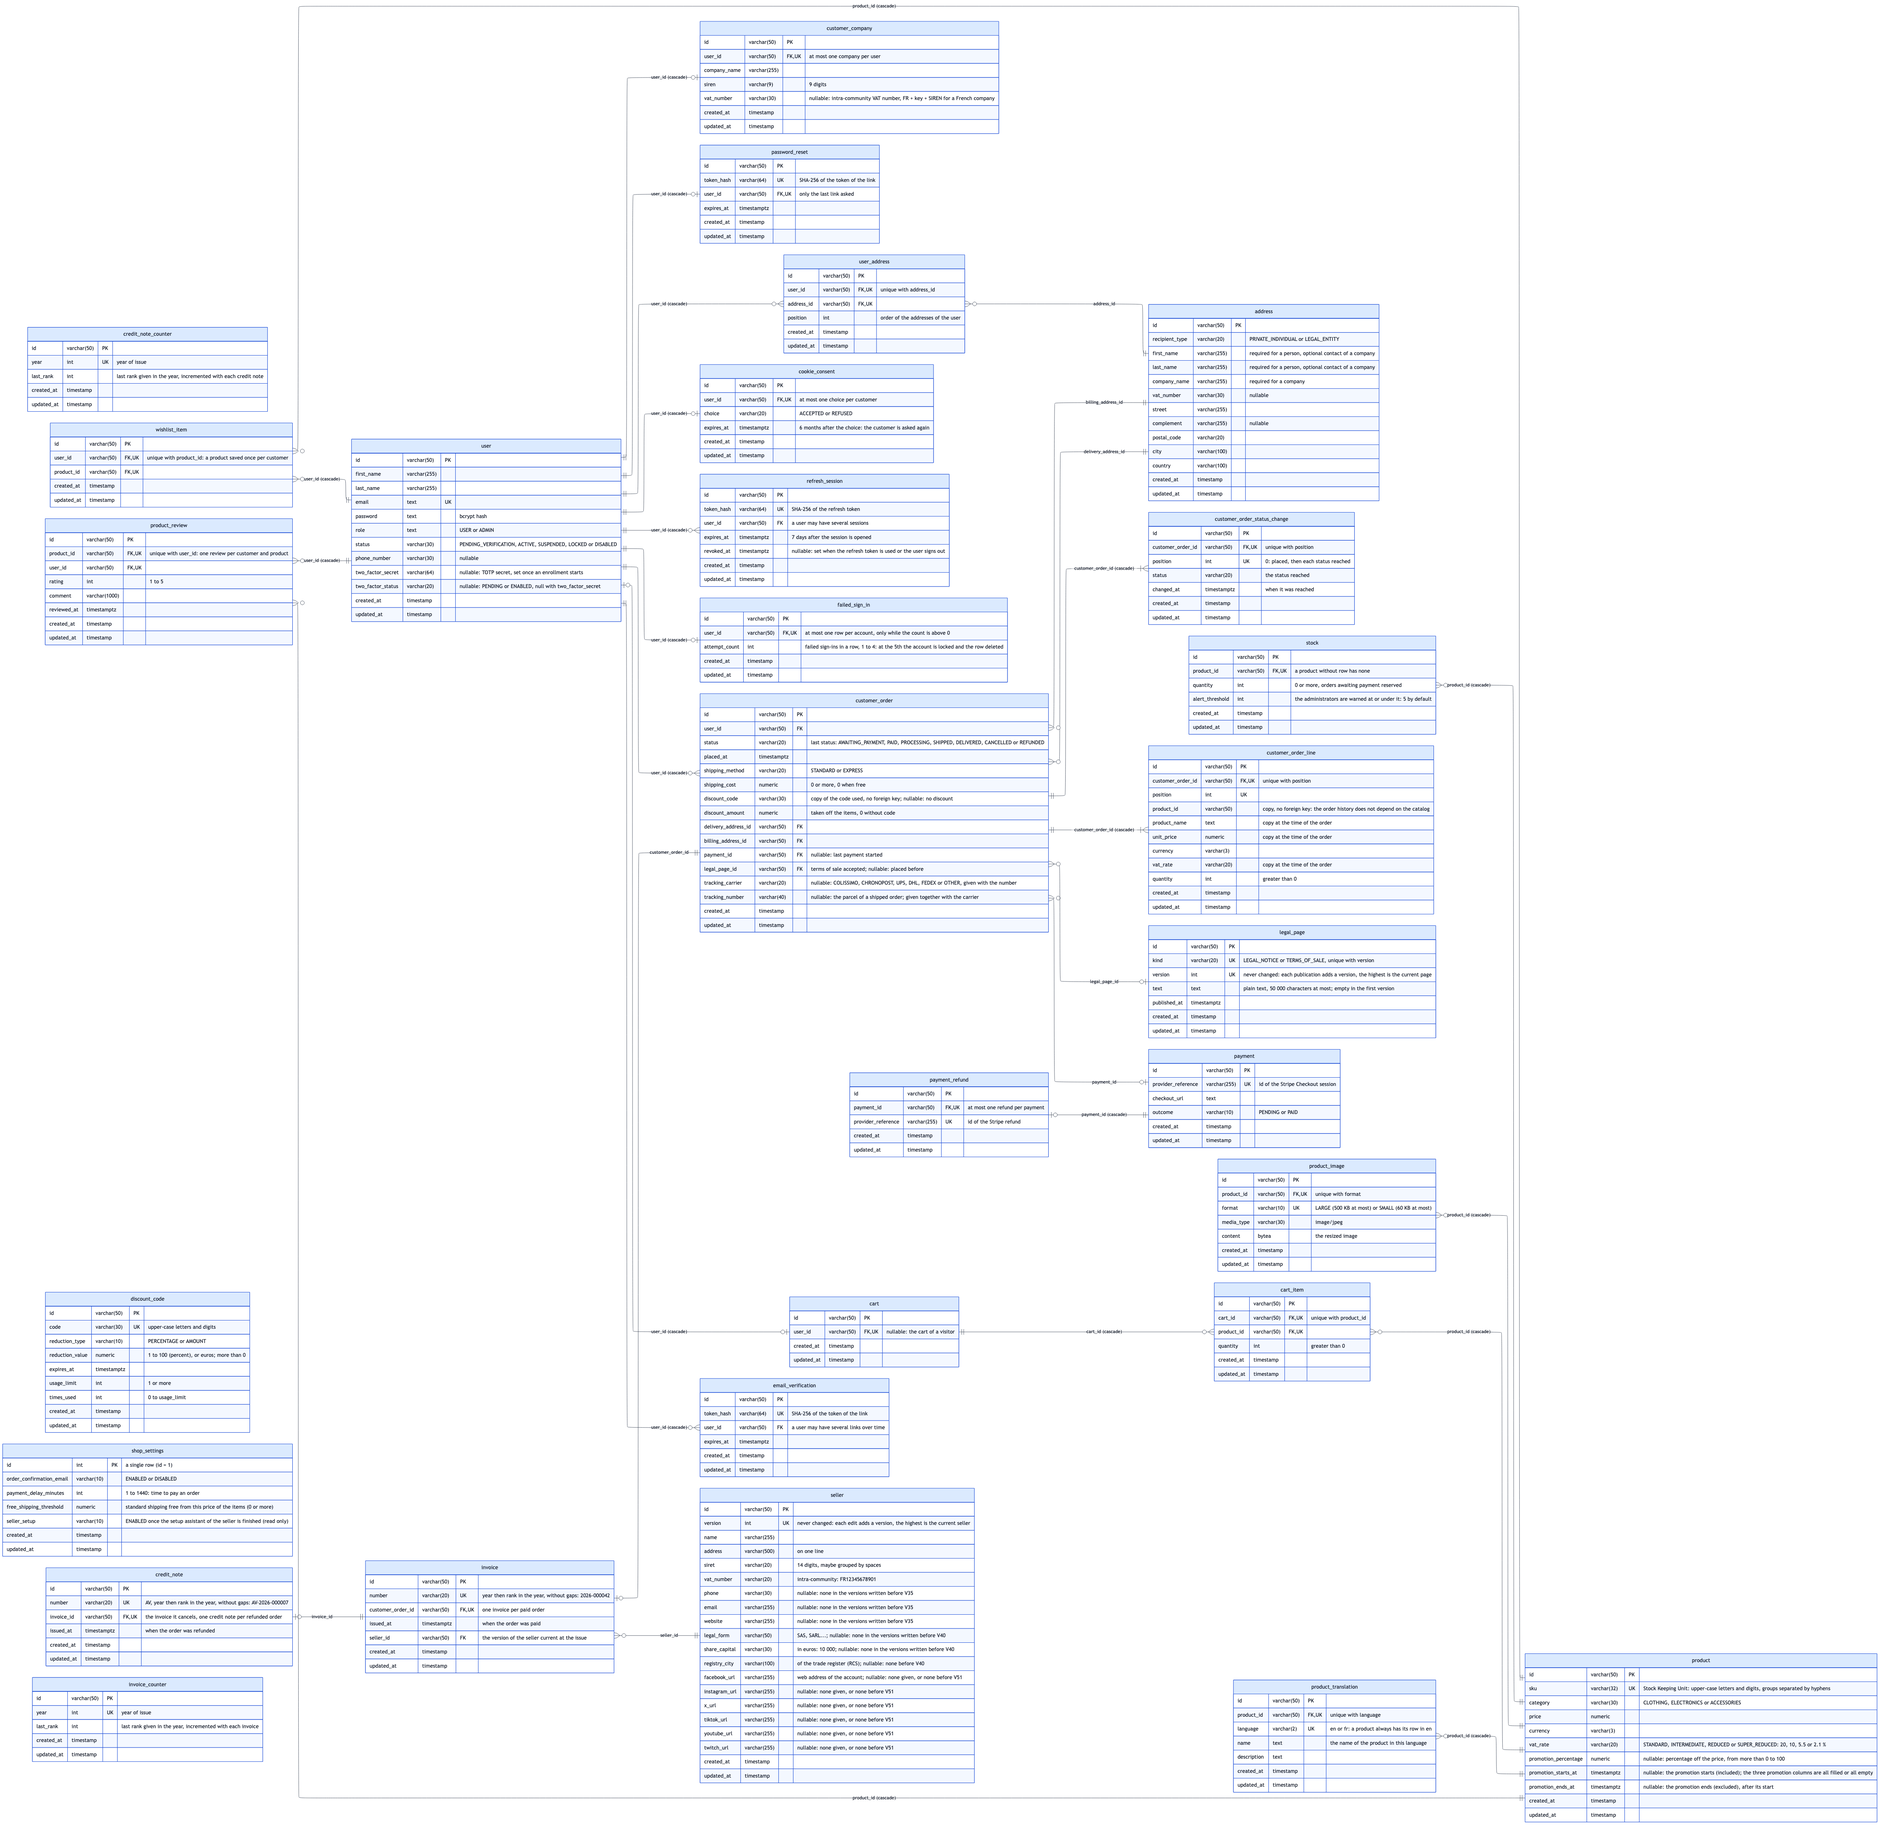
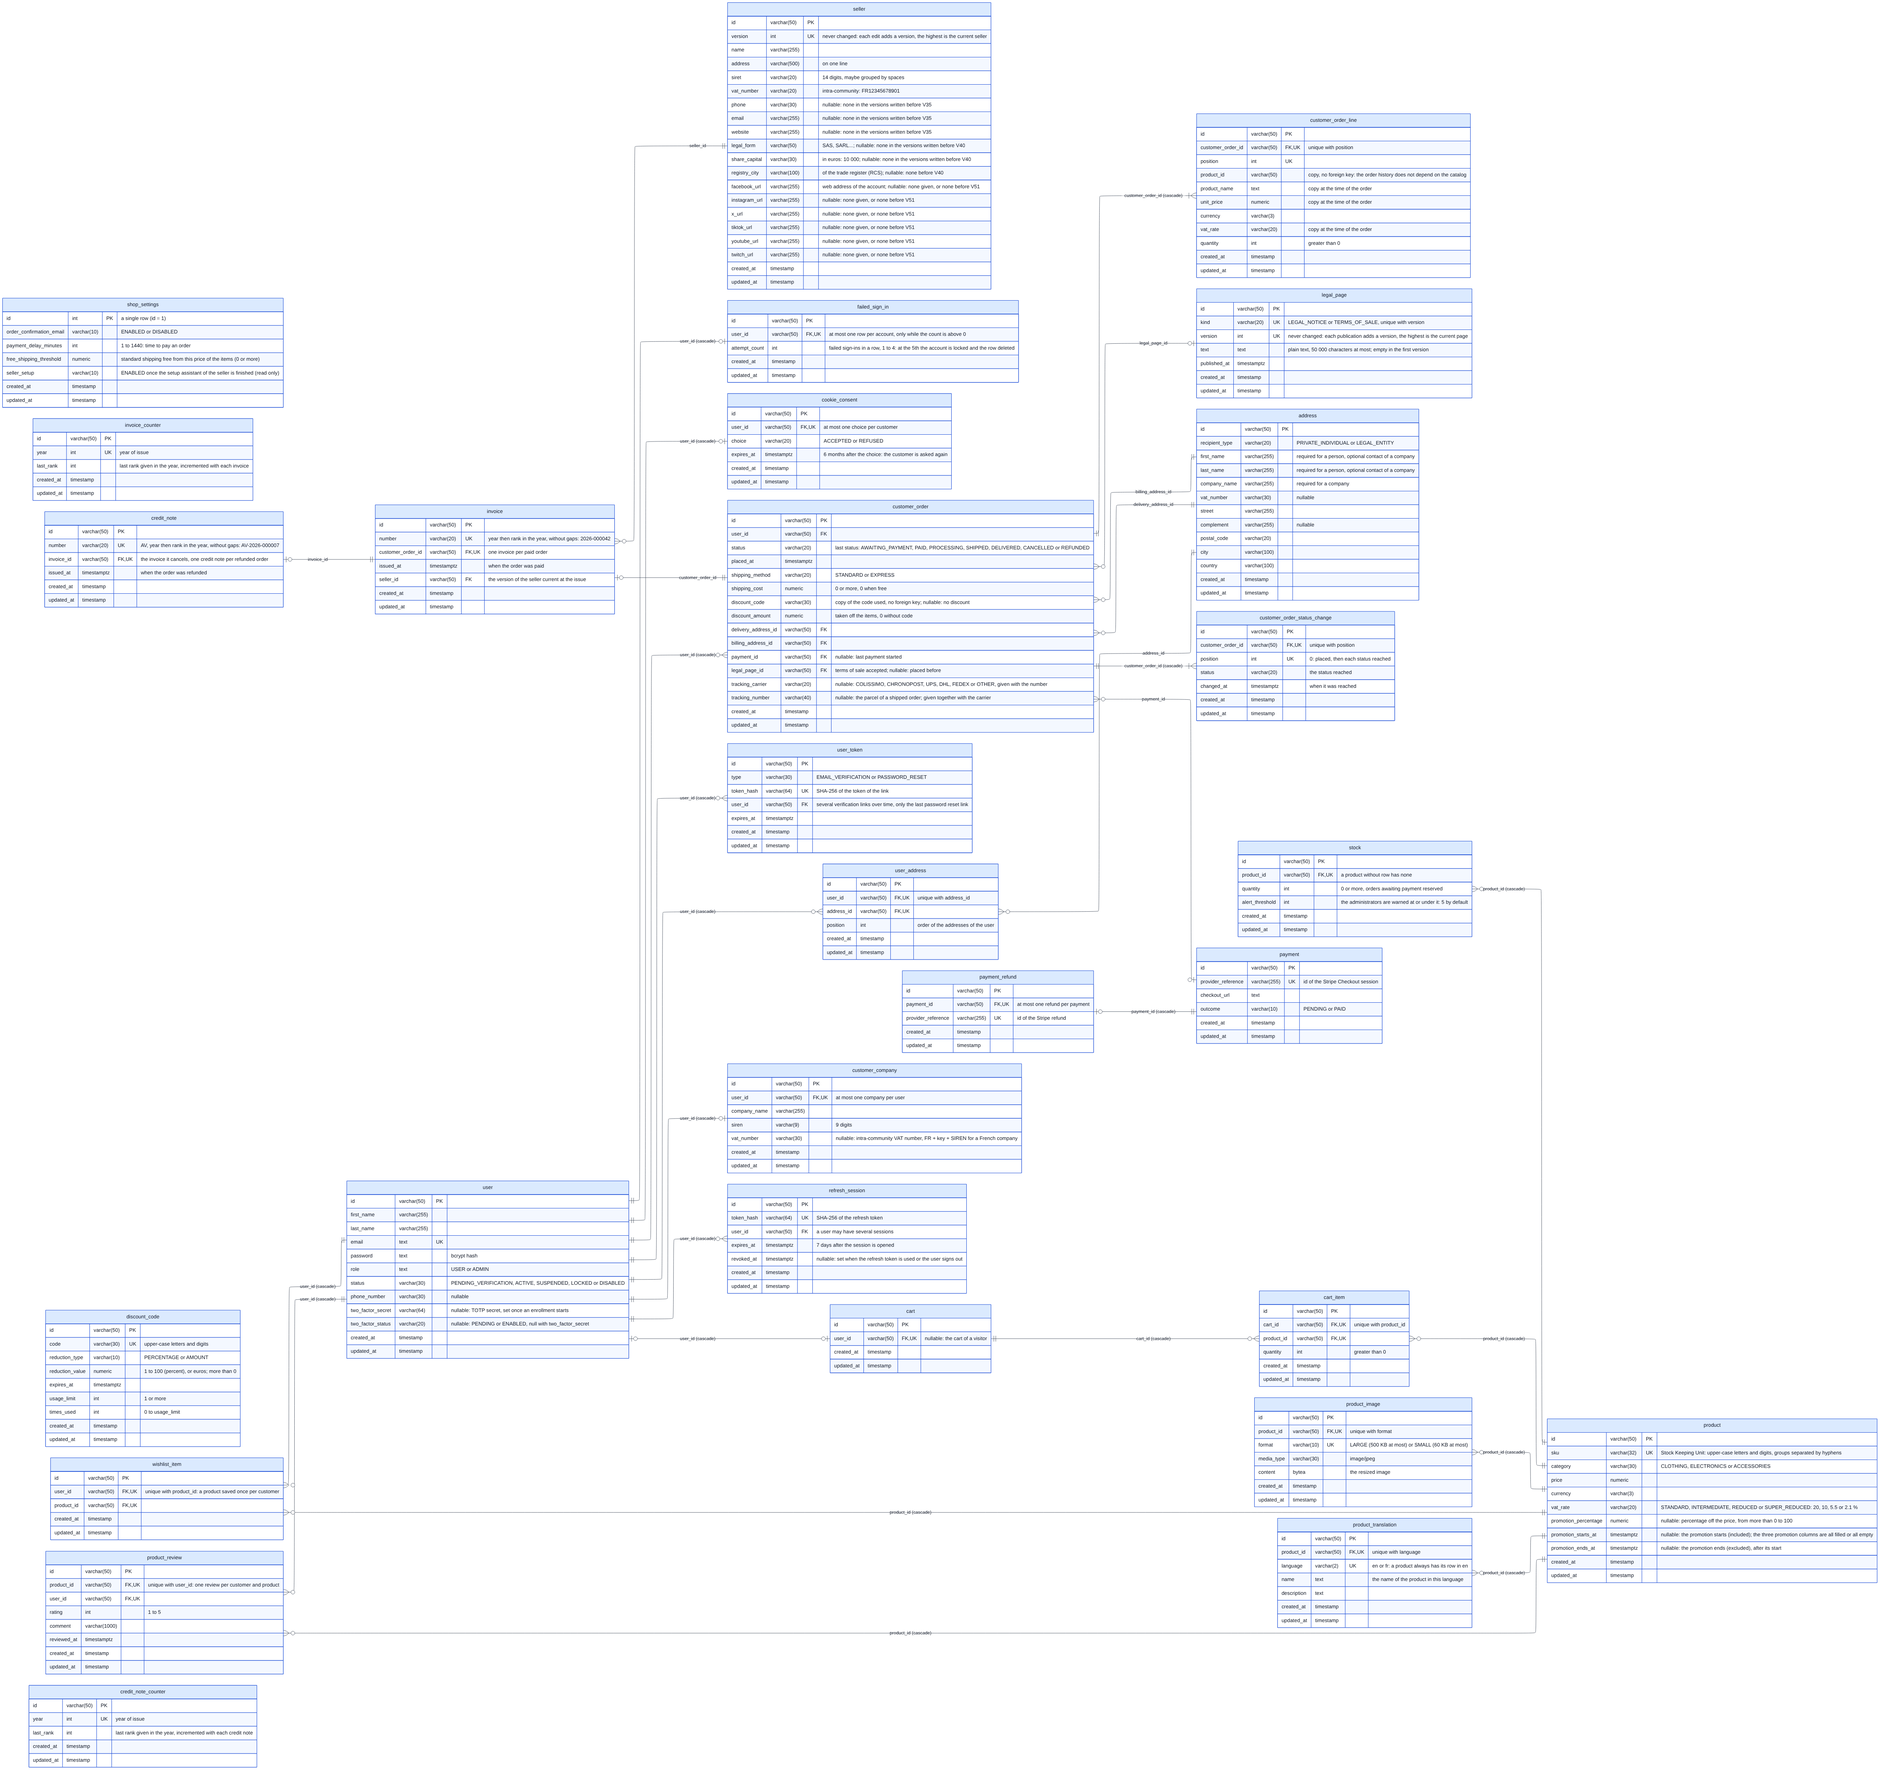
refactor(db): merge email_verification and password_reset into user_token
A type column (EMAIL_VERIFICATION, PASSWORD_RESET) tells the operation. Existing rows are
copied by V52; at most one password reset per user stays guaranteed by a partial unique index.

Claude-Session: https://claude.ai/code/session_01U9gDSaJaPzsiz2tWC6p1UZ

diff --git a/backend/spring-infra/src/main/kotlin/org/flexstore/infra/spring/adapter/email/EmailRepositoryAdapter.kt b/backend/spring-infra/src/main/kotlin/org/flexstore/infra/spring/adapter/email/EmailRepositoryAdapter.kt
@@ -4,8 +4,9 @@ import org.flexstore.domain.email.model.*
 import org.flexstore.domain.sharedkernel.Identity
 import org.flexstore.domain.email.*
 import org.flexstore.domain.user.model.UserId
-import org.flexstore.infra.spring.adapter.persistence.jpa.entity.EmailVerificationEntity
-import org.flexstore.infra.spring.adapter.persistence.jpa.repository.JpaEmailVerificationRepository
+import org.flexstore.infra.spring.adapter.persistence.jpa.entity.UserTokenEntity
+import org.flexstore.infra.spring.adapter.persistence.jpa.entity.UserTokenType
+import org.flexstore.infra.spring.adapter.persistence.jpa.repository.JpaUserTokenRepository
 import org.flexstore.infra.spring.adapter.persistence.jpa.hash
 import org.springframework.stereotype.Repository
 import org.springframework.transaction.annotation.Transactional
@@ -15,7 +16,7 @@ import org.springframework.transaction.annotation.Transactional
 @Transactional
 class EmailRepositoryAdapter(
     private val emailSender: EmailSender,
-    private val jpaVerifications: JpaEmailVerificationRepository
+    private val jpaVerifications: JpaUserTokenRepository
 ) : EmailRepository {
 
     override fun send(email: OrderConfirmationEmail) = emailSender.send(email)
@@ -27,8 +28,9 @@ class EmailRepositoryAdapter(
     override fun send(email: PasswordResetEmail) = emailSender.send(email)
 
     override fun save(verification: EmailVerification) {
-        val verificationEntity = EmailVerificationEntity(
+        val verificationEntity = UserTokenEntity(
             Identity.nextId().value,
+            type = UserTokenType.EMAIL_VERIFICATION,
             tokenHash = verification.token.hash(),
             userId = verification.userId.value,
             expiresAt = verification.expiresAt.value
@@ -38,14 +40,14 @@ class EmailRepositoryAdapter(
 
     @Transactional(readOnly = true)
     override fun findBy(token: VerificationToken): EmailVerification? =
-        jpaVerifications.findByTokenHash(token.hash())
+        jpaVerifications.findByTokenHashAndType(token.hash(), UserTokenType.EMAIL_VERIFICATION)
             ?.let { EmailVerification(UserId.ValidUserId(it.userId), token, ExpirationDate(it.expiresAt)) }
 
     override fun expireAllVerificationsOf(userId: UserId, expiration: ExpirationDate) {
-        jpaVerifications.expireAllByUserId(userId.value, expiration.value)
+        jpaVerifications.expireAllByUserIdAndType(userId.value, UserTokenType.EMAIL_VERIFICATION, expiration.value)
     }
 
     override fun deleteAllVerificationsOf(userId: UserId) {
-        jpaVerifications.deleteAllByUserId(userId.value)
+        jpaVerifications.deleteAllByUserIdAndType(userId.value, UserTokenType.EMAIL_VERIFICATION)
     }
 }

diff --git a/backend/spring-infra/src/main/kotlin/org/flexstore/infra/spring/adapter/persistence/jpa/repository/PostgresPasswordResetRepositoryAdapter.kt b/backend/spring-infra/src/main/kotlin/org/flexstore/infra/spring/adapter/persistence/jpa/repository/PostgresPasswordResetRepositoryAdapter.kt
@@ -1,33 +1,25 @@
 package org.flexstore.infra.spring.adapter.persistence.jpa.repository
 
 import org.flexstore.domain.email.model.*
-import org.flexstore.infra.spring.adapter.persistence.jpa.entity.PasswordResetEntity
+import org.flexstore.infra.spring.adapter.persistence.jpa.entity.UserTokenEntity
+import org.flexstore.infra.spring.adapter.persistence.jpa.entity.UserTokenType
 import org.flexstore.infra.spring.adapter.persistence.jpa.hash
 import org.flexstore.domain.email.*
 import org.flexstore.domain.sharedkernel.Identity
 import org.flexstore.domain.user.model.UserId
-import org.springframework.data.jpa.repository.JpaRepository
-import org.springframework.data.jpa.repository.Modifying
 import org.springframework.stereotype.Repository
 import org.springframework.transaction.annotation.Transactional
 
 @Repository
-interface JpaPasswordResetRepository : JpaRepository<PasswordResetEntity, String> {
-    fun findByTokenHash(tokenHash: String): PasswordResetEntity?
-
-    @Modifying
-    fun deleteAllByUserId(userId: String)
-}
-
-@Repository
 @Transactional
-class PostgresPasswordResetRepositoryAdapter(private val jpaRepo: JpaPasswordResetRepository) :
+class PostgresPasswordResetRepositoryAdapter(private val jpaRepo: JpaUserTokenRepository) :
     PasswordResetRepository {
 
     override fun save(reset: PasswordReset) {
         val expiringToken = reset.expiringToken
-        val resetEntity = PasswordResetEntity(
+        val resetEntity = UserTokenEntity(
             Identity.nextId().value,
+            type = UserTokenType.PASSWORD_RESET,
             tokenHash = expiringToken.token.hash(),
             userId = reset.userId.value,
             expiresAt = expiringToken.expiresAt.value
@@ -37,14 +29,14 @@ class PostgresPasswordResetRepositoryAdapter(private val jpaRepo: JpaPasswordRes
 
     @Transactional(readOnly = true)
     override fun findBy(token: VerificationToken): PasswordReset? =
-        jpaRepo.findByTokenHash(token.hash())?.let { resetEntity ->
+        jpaRepo.findByTokenHashAndType(token.hash(), UserTokenType.PASSWORD_RESET)?.let { resetEntity ->
             val expiringToken = ExpiringToken(token, ExpirationDate(resetEntity.expiresAt))
             PasswordReset(UserId.ValidUserId(resetEntity.userId), expiringToken)
         }
 
     // Flushed at once, so that the new link of the user can be inserted in the same transaction
     override fun deleteAllOf(userId: UserId) {
-        jpaRepo.deleteAllByUserId(userId.value)
+        jpaRepo.deleteAllByUserIdAndType(userId.value, UserTokenType.PASSWORD_RESET)
         jpaRepo.flush()
     }
 }

diff --git a/backend/spring-infra/src/main/kotlin/org/flexstore/infra/spring/adapter/persistence/jpa/repository/JpaUserTokenRepository.kt b/backend/spring-infra/src/main/kotlin/org/flexstore/infra/spring/adapter/persistence/jpa/repository/JpaUserTokenRepository.kt
@@ -1,0 +1,32 @@
+package org.flexstore.infra.spring.adapter.persistence.jpa.repository
+
+import org.flexstore.infra.spring.adapter.persistence.jpa.entity.UserTokenEntity
+import org.flexstore.infra.spring.adapter.persistence.jpa.entity.UserTokenType
+import org.springframework.data.jpa.repository.JpaRepository
+import org.springframework.data.jpa.repository.Modifying
+import org.springframework.data.jpa.repository.Query
+import org.springframework.data.repository.query.Param
+import org.springframework.stereotype.Repository
+import java.time.Instant
+
+// The links sent by email (verification of the email, new password), used by the EmailRepositoryAdapter and the
+// PostgresPasswordResetRepositoryAdapter
+@Repository
+interface JpaUserTokenRepository : JpaRepository<UserTokenEntity, String> {
+    fun findByTokenHashAndType(tokenHash: String, type: UserTokenType): UserTokenEntity?
+
+    @Modifying
+    fun deleteAllByUserIdAndType(userId: String, type: UserTokenType)
+
+    // The links of the user expire at the given date, unless they already expired before
+    @Modifying
+    @Query(
+        "UPDATE UserTokenEntity t SET t.expiresAt = :expiration " +
+            "WHERE t.userId = :userId AND t.type = :type AND t.expiresAt > :expiration"
+    )
+    fun expireAllByUserIdAndType(
+        @Param("userId") userId: String,
+        @Param("type") type: UserTokenType,
+        @Param("expiration") expiration: Instant
+    )
+}

diff --git a/backend/spring-infra/src/main/kotlin/org/flexstore/infra/spring/adapter/persistence/jpa/entity/UserTokenEntity.kt b/backend/spring-infra/src/main/kotlin/org/flexstore/infra/spring/adapter/persistence/jpa/entity/UserTokenEntity.kt
@@ -3,12 +3,20 @@ package org.flexstore.infra.spring.adapter.persistence.jpa.entity
 import jakarta.persistence.*
 import java.time.Instant
 
-// A verification link sent to a user (a user may have several over time)
+// The operation a link sent by email to a user is for
+enum class UserTokenType { EMAIL_VERIFICATION, PASSWORD_RESET }
+
+// A link sent by email to a user: the type tells the operation (a user may have several verification links over
+// time, and only the last password reset link asked)
 @Entity
-@Table(name = "email_verification")
-data class EmailVerificationEntity(
+@Table(name = "user_token")
+data class UserTokenEntity(
     @Id
     val id: String,
+
+    @Enumerated(EnumType.STRING)
+    @Column(name = "type", nullable = false, updatable = false)
+    val type: UserTokenType,
 
     // SHA-256 of the token sent by email, never the token itself
     @Column(name = "token_hash", nullable = false, unique = true, updatable = false)
@@ -17,7 +25,7 @@ data class EmailVerificationEntity(
     @Column(name = "user_id", nullable = false, updatable = false)
     val userId: String,
 
-    // Brought forward when a newer link is sent
+    // Brought forward when a newer verification link is sent
     @Column(name = "expires_at", nullable = false)
     val expiresAt: Instant
 ) : TimestampedEntity()

diff --git a/backend/spring-infra/src/test/kotlin/org/flexstore/infra/spring/rest/PasswordResetIT.kt b/backend/spring-infra/src/test/kotlin/org/flexstore/infra/spring/rest/PasswordResetIT.kt
@@ -107,7 +107,7 @@ class PasswordResetIT {
         // Arrange
         requestReset(CUSTOMER_EMAIL).andExpect(status().isNoContent)
         val customerId = userRepository.findByEmail(CUSTOMER_EMAIL)!!.id
-        val expireLink = "UPDATE password_reset SET expires_at = now() - interval '1 second' WHERE user_id = ?"
+        val expireLink = "UPDATE user_token SET expires_at = now() - interval '1 second' WHERE user_id = ? AND type = 'PASSWORD_RESET'"
         jdbcTemplate.update(expireLink, customerId)
         // Act
         val response = reset(lastToken(), "new-password")
@@ -132,7 +132,7 @@ class PasswordResetIT {
         requestReset(CUSTOMER_EMAIL).andExpect(status().isNoContent)
         // Assert
         val customerId = userRepository.findByEmail(CUSTOMER_EMAIL)!!.id
-        val selectHashes = "SELECT token_hash FROM password_reset WHERE user_id = ?"
+        val selectHashes = "SELECT token_hash FROM user_token WHERE user_id = ? AND type = 'PASSWORD_RESET'"
         val storedHashes = jdbcTemplate.queryForList(selectHashes, String::class.java, customerId)
         assertThat(storedHashes).hasSize(1).doesNotContain(lastToken())
     }

diff --git a/backend/spring-infra/src/test/kotlin/org/flexstore/infra/spring/rest/AccountIT.kt b/backend/spring-infra/src/test/kotlin/org/flexstore/infra/spring/rest/AccountIT.kt
@@ -152,7 +152,7 @@ class AccountIT {
         // Arrange
         register(registration()).andExpect(status().isCreated)
         val customerId = userRepository.findByEmail(CUSTOMER_EMAIL)!!.id
-        jdbcTemplate.update("UPDATE email_verification SET expires_at = now() - interval '1 second' WHERE user_id = ?", customerId)
+        jdbcTemplate.update("UPDATE user_token SET expires_at = now() - interval '1 second' WHERE user_id = ? AND type = 'EMAIL_VERIFICATION'", customerId)
         // Act
         val response = verify(lastToken())
         // Assert
@@ -166,7 +166,7 @@ class AccountIT {
         register(registration()).andExpect(status().isCreated)
         // Assert
         val customerId = userRepository.findByEmail(CUSTOMER_EMAIL)!!.id
-        val storedHashes = jdbcTemplate.queryForList("SELECT token_hash FROM email_verification WHERE user_id = ?", String::class.java, customerId)
+        val storedHashes = jdbcTemplate.queryForList("SELECT token_hash FROM user_token WHERE user_id = ? AND type = 'EMAIL_VERIFICATION'", String::class.java, customerId)
         assertThat(storedHashes).hasSize(1).doesNotContain(lastToken())
     }
 

diff --git a/docs/database.md b/docs/database.md
@@ -1,6 +1,6 @@
 # Physical data model
 
-The PostgreSQL schema of Flexstore, as created by the Flyway migrations of `backend/migrations` (last migration: **V51**). Update this diagram in the same pull request as any migration that changes the schema (see the `database-convention` skill).
+The PostgreSQL schema of Flexstore, as created by the Flyway migrations of `backend/migrations` (last migration: **V52**). Update this diagram in the same pull request as any migration that changes the schema (see the `database-convention` skill).
 
 ![Physical data model](database.png)
 
@@ -36,15 +36,6 @@ erDiagram
         updated_at timestamp
     }
 
-    email_verification {
-        id varchar(50) PK
-        token_hash varchar(64) UK "SHA-256 of the token of the link"
-        user_id varchar(50) FK "a user may have several links over time"
-        expires_at timestamptz
-        created_at timestamp
-        updated_at timestamp
-    }
-
     failed_sign_in {
         id varchar(50) PK
         user_id varchar(50) FK,UK "at most one row per account, only while the count is above 0"
@@ -53,10 +44,11 @@ erDiagram
         updated_at timestamp
     }
 
-    password_reset {
+    user_token {
         id varchar(50) PK
+        type varchar(30) "EMAIL_VERIFICATION or PASSWORD_RESET"
         token_hash varchar(64) UK "SHA-256 of the token of the link"
-        user_id varchar(50) FK,UK "only the last link asked"
+        user_id varchar(50) FK "several verification links over time, only the last password reset link"
         expires_at timestamptz
         created_at timestamp
         updated_at timestamp
@@ -334,9 +326,8 @@ erDiagram
         updated_at timestamp
     }
 
-    user ||--o{ email_verification : "user_id (cascade)"
+    user ||--o{ user_token : "user_id (cascade)"
     user ||--o| customer_company : "user_id (cascade)"
-    user ||--o| password_reset : "user_id (cascade)"
     user ||--o| cookie_consent : "user_id (cascade)"
     user ||--o| failed_sign_in : "user_id (cascade)"
     user ||--o{ refresh_session : "user_id (cascade)"
